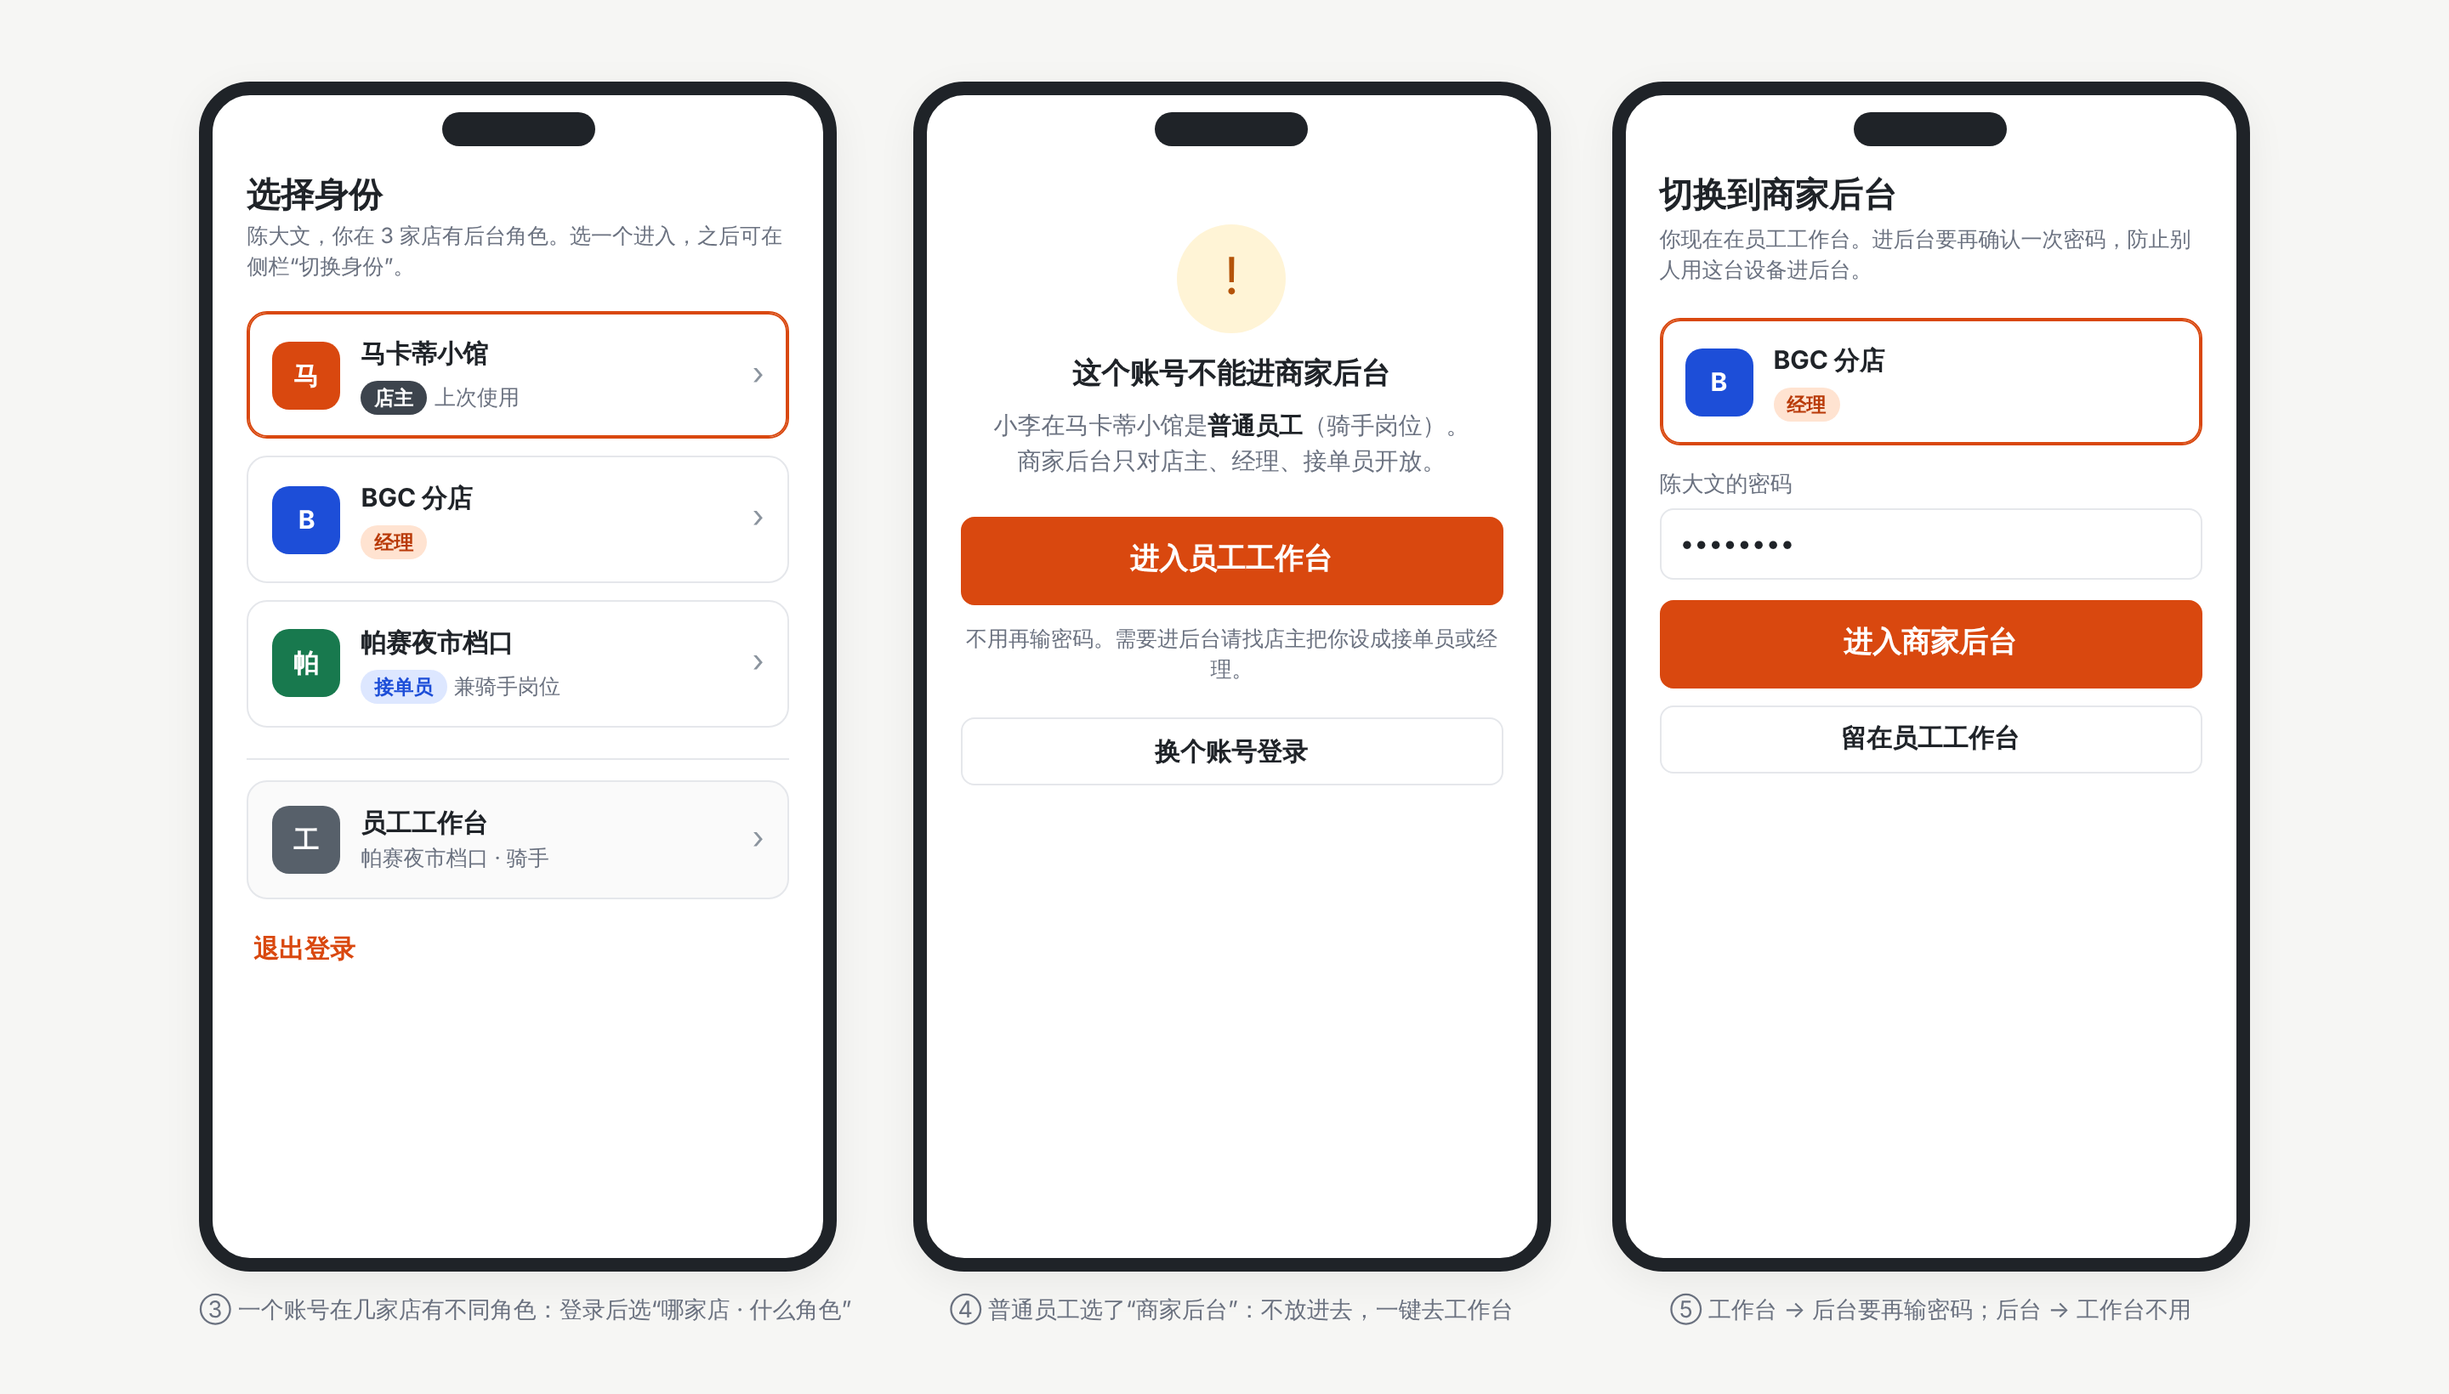
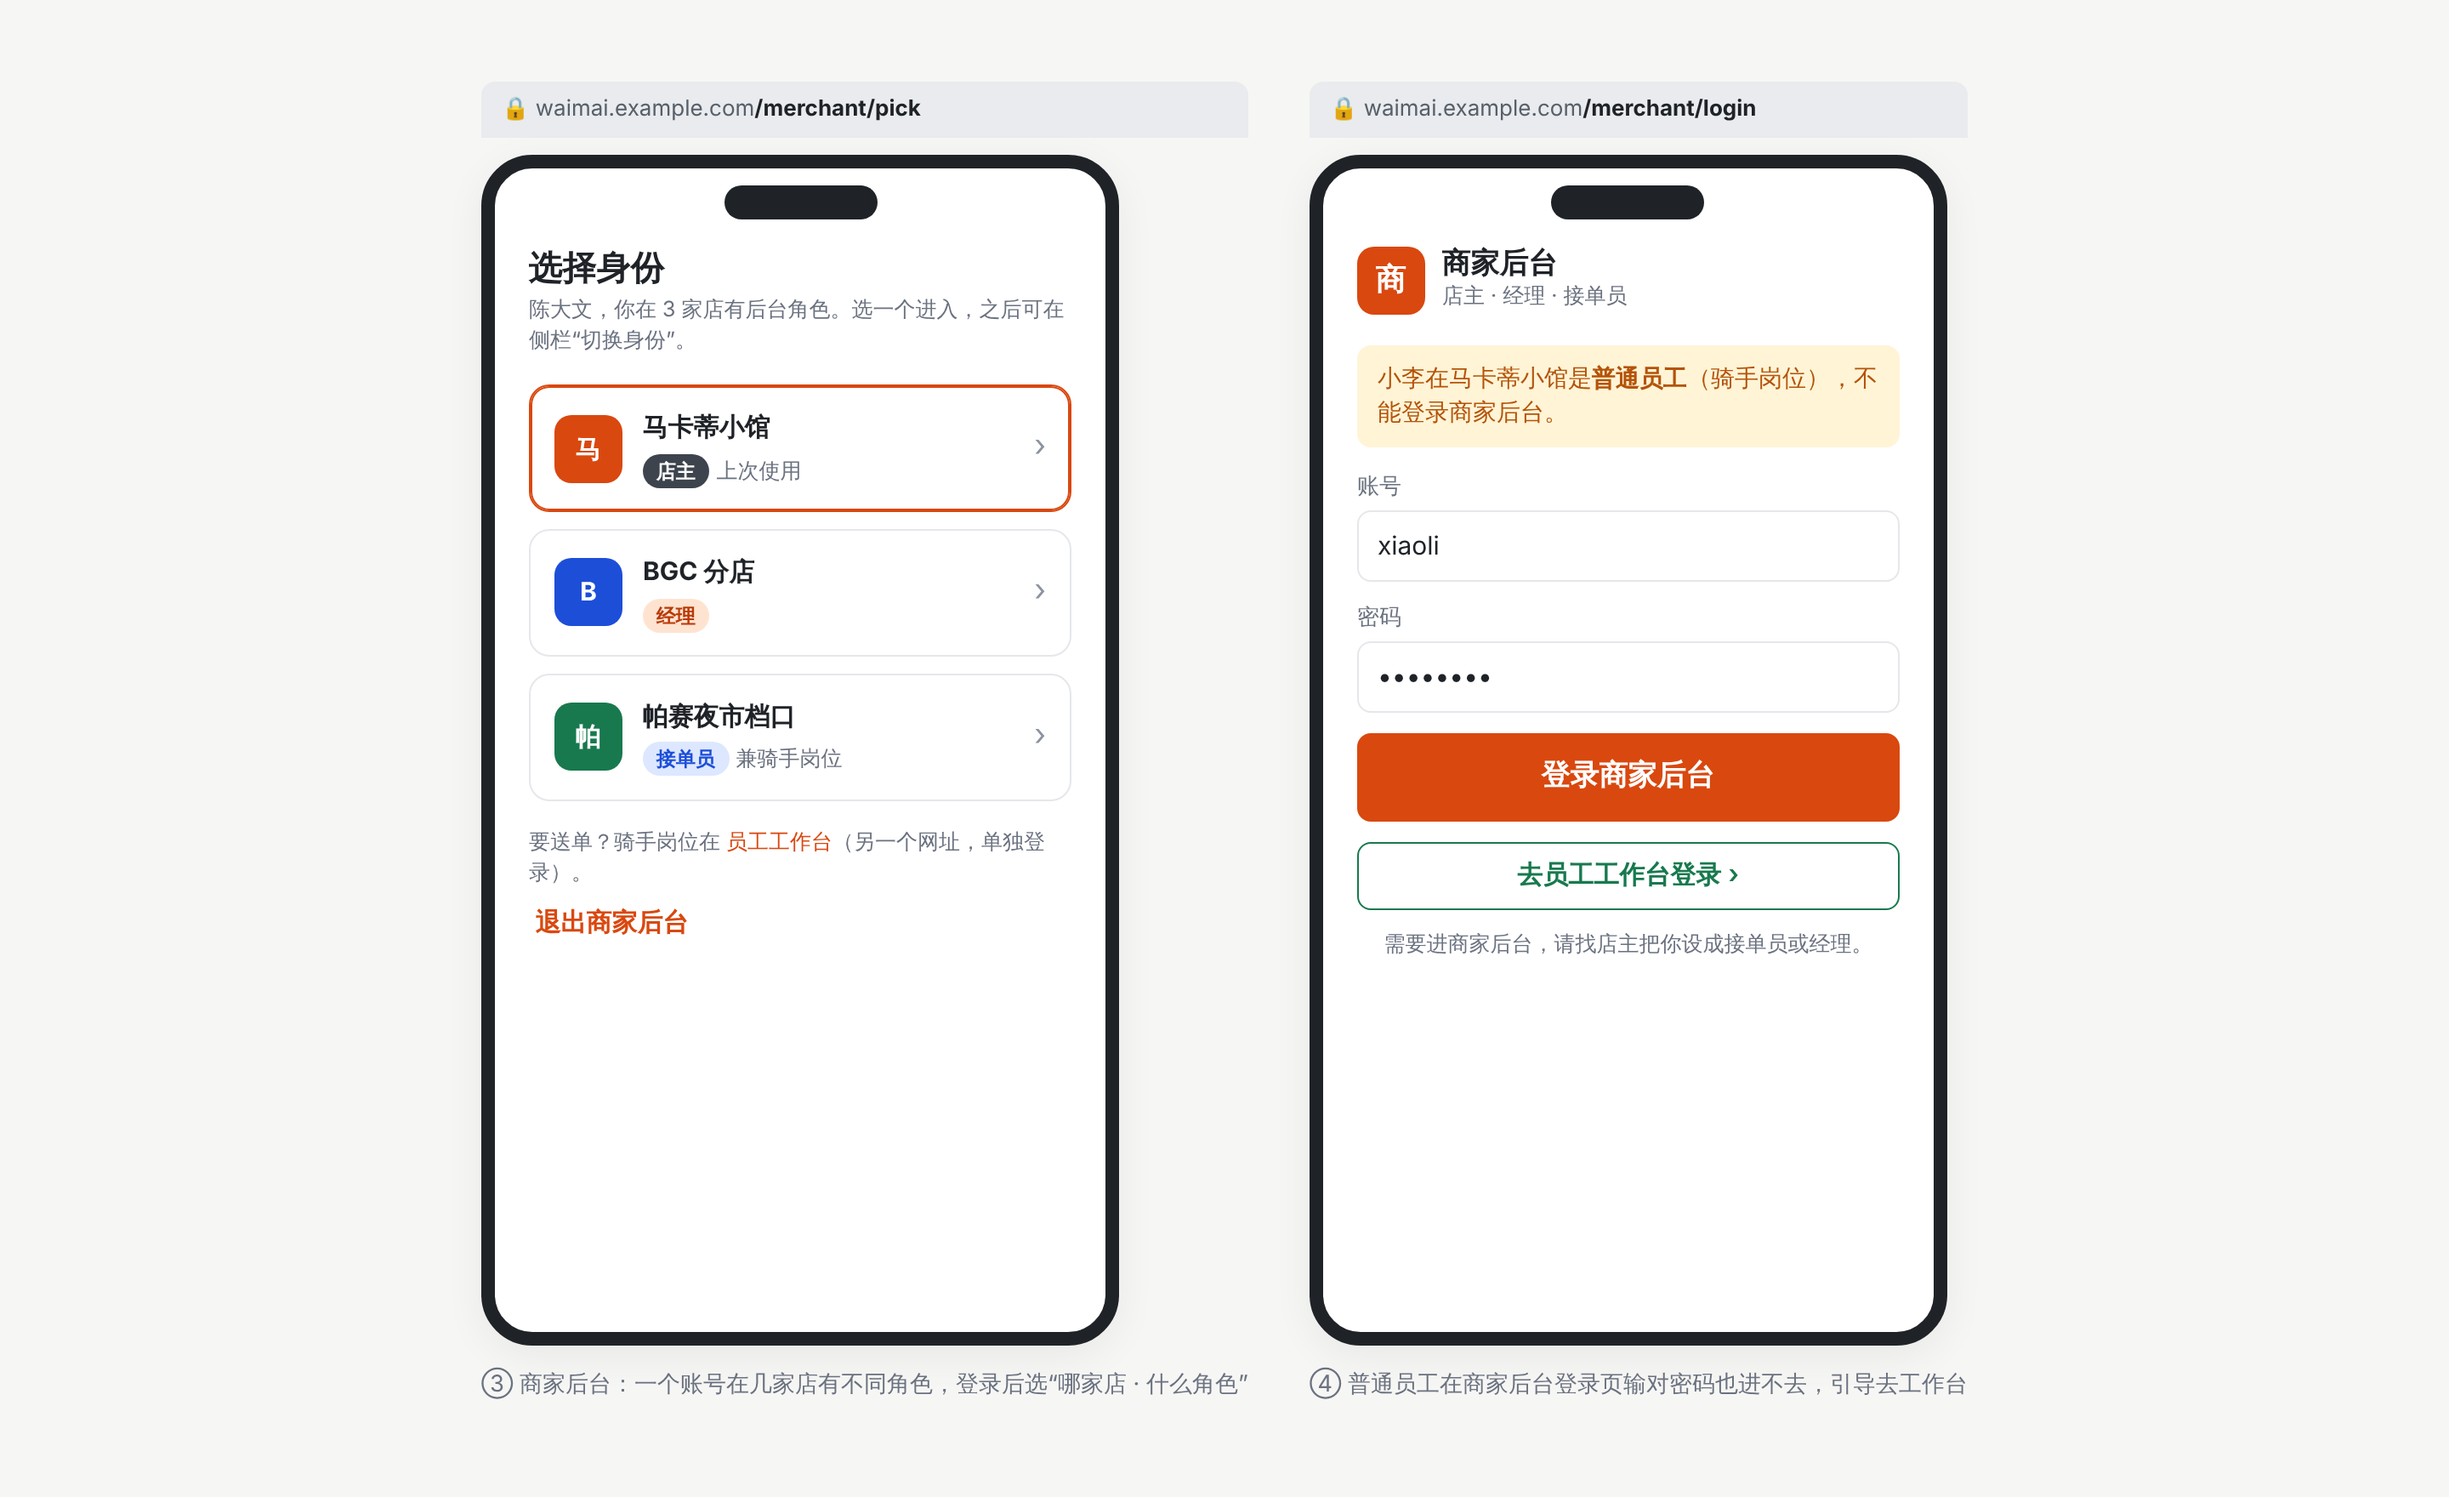
员工工作台、商家后台、平台后台分开网址和登录（方案 v0.2）
Claude-Session: https://claude.ai/code/session_0171QGWK57wVTWkbRvJrpXe4

Changed region(s): [[0.0625, 0.0311, 0.9375, 0.964]]

diff --git a/docs/staff-access-prototype/index.html b/docs/staff-access-prototype/index.html
@@ -39,6 +39,8 @@
   .frame { width: 400px; background: #fff; border: 1px solid var(--line); border-radius: 16px; padding: 26px 24px; box-shadow: 0 6px 24px rgba(0,0,0,.06); }
   .frame.dev { width: 375px; min-height: 700px; border-radius: 30px; padding: 46px 20px 24px; position: relative; border: 8px solid #1f2328; }
   .frame.dev::before { content: ""; position: absolute; top: 10px; left: 50%; width: 90px; height: 20px; margin-left: -45px; background: #1f2328; border-radius: 12px; }
+  .urlbar { width: 100%; background: #e9ebee; border-radius: 8px 8px 0 0; padding: 7px 12px; font-size: 13px; color: #57606a; margin-bottom: 10px; } .urlbar b { color: var(--ink); }
+  .logo { width: 40px; height: 40px; border-radius: 10px; color: #fff; display: grid; place-items: center; font-weight: 800; font-size: 18px; flex: none; }
   .cap { text-align: center; margin-top: 14px; font-size: 13.5px; color: var(--muted); }
   .entry { display: grid; grid-template-columns: 1fr 1fr; background: #eceef0; border-radius: 10px; padding: 4px; margin: 18px 0 16px; }
   .entry button { border: 0; background: none; padding: 9px 0; border-radius: 8px; font-weight: 700; color: #57606a; cursor: pointer; }
@@ -85,71 +87,77 @@
 <body>
 <!-- 原型：商家后台员工登录、选身份、角色权限、员工编辑、接单员视角和经理授权。数据都是示意。方案见 ../STAFF_ACCESS_DESIGN.md -->
 
-<!-- ============ 01 登录页（电脑） ============ -->
+<!-- ============ 01 三个登录页（v0.2：三个网址分开） ============ -->
 <section id="login">
-  <div class="stage">
+  <div class="stage" style="gap:28px">
     <div>
-      <div class="frame">
-        <div class="row between"><h1>登录</h1><button class="lang" style="color:var(--ink)">🌐 中文</button></div>
-        <div class="entry"><button class="on">商家后台<small>店主 · 经理 · 接单员</small></button><button>员工工作台<small>后厨 · 打包 · 骑手</small></button></div>
+      <div class="urlbar">🔒 waimai.example.com<b>/merchant/login</b></div>
+      <div class="frame" style="border-top:6px solid #d9480f">
+        <div class="row between"><div class="row" style="gap:10px"><span class="logo" style="background:#d9480f">商</span><div><h1>商家后台</h1><div class="hint">店主 · 经理 · 接单员</div></div></div><button class="lang" style="color:var(--ink)">🌐 中文</button></div>
+        <div style="height:18px"></div>
         <label class="field"><span>账号</span><input value="lin.cashier"></label>
         <label class="field"><span>密码</span><input type="password" value="12345678"></label>
-        <button class="btn primary block big">登录商家后台</button>
-        <p class="hint" style="margin-top:12px">后厨、打包和骑手请选“员工工作台”。账号由店主或经理在“员工”页开通。</p>
+        <button class="btn primary block big" style="background:#d9480f;border-color:#d9480f">登录商家后台</button>
+        <p class="hint" style="margin-top:14px">后厨、打包、骑手请到 <a>员工工作台登录</a></p>
       </div>
-      <div class="cap">① 登录页：先选进商家后台还是员工工作台，默认选这台设备上次用的</div>
     </div>
+
     <div>
-      <div class="frame">
-        <div class="row between"><h1>登录</h1><button class="lang" style="color:var(--ink)">🌐 中文</button></div>
-        <div class="entry"><button>商家后台<small>店主 · 经理 · 接单员</small></button><button class="on">员工工作台<small>后厨 · 打包 · 骑手</small></button></div>
+      <div class="urlbar">🔒 waimai.example.com<b>/work/login</b></div>
+      <div class="frame" style="border-top:6px solid #18794e">
+        <div class="row between"><div class="row" style="gap:10px"><span class="logo" style="background:#18794e">工</span><div><h1>员工工作台</h1><div class="hint">后厨 · 打包 · 骑手 · 所有员工</div></div></div><button class="lang" style="color:var(--ink)">🌐 中文</button></div>
+        <div style="height:18px"></div>
         <label class="field"><span>账号</span><input value="xiaoli"></label>
         <label class="field"><span>密码</span><input type="password" value="12345678"></label>
-        <button class="btn primary block big">登录员工工作台</button>
-        <p class="hint" style="margin-top:12px">安卓 App 里只有这一种登录，不显示上面两个标签。</p>
+        <button class="btn primary block big" style="background:#18794e;border-color:#18794e">登录员工工作台</button>
+        <p class="hint" style="margin-top:14px">店主、经理、接单员管理门店请到 <a>商家后台登录</a></p>
       </div>
-      <div class="cap">② 选“员工工作台”：所有员工都能进，按岗位显示店内或骑手身份</div>
     </div>
+
+    <div>
+      <div class="urlbar">🔒 waimai.example.com<b>/admin/login</b></div>
+      <div class="frame" style="border-top:6px solid #1e3a8a">
+        <div class="row between"><div class="row" style="gap:10px"><span class="logo" style="background:#1e3a8a">平</span><div><h1>平台管理员后台</h1><div class="hint">只限平台管理员</div></div></div><button class="lang" style="color:var(--ink)">🌐 中文</button></div>
+        <div style="height:18px"></div>
+        <label class="field"><span>账号</span><input value="admin"></label>
+        <label class="field"><span>密码</span><input type="password" value="12345678"></label>
+        <button class="btn primary block big" style="background:#1e3a8a;border-color:#1e3a8a">登录平台后台</button>
+        <p class="hint" style="margin-top:14px">这个页面不和商家、员工的页面互相链接。</p>
+      </div>
+    </div>
+
   </div>
+  <div class="cap" style="margin-top:-150px;padding-bottom:28px">三个后台三个网址、三个登录页，长得也不一样；登录状态互不相通，在一个后台登录不会进到另一个</div>
 </section>
 
-<!-- ============ 02 选择身份 / 被拦 / 工作台没岗位（手机） ============ -->
+<!-- ============ 02 选择身份 / 普通员工被拦 ============ -->
 <section id="pick">
   <div class="stage">
     <div>
+      <div class="urlbar">🔒 waimai.example.com<b>/merchant/pick</b></div>
       <div class="frame dev">
         <h1>选择身份</h1>
         <p class="hint" style="margin:4px 0 16px">陈大文，你在 3 家店有后台角色。选一个进入，之后可在侧栏“切换身份”。</p>
         <div class="idrow last"><div class="av" style="background:#d9480f">马</div><div class="grow"><b>马卡蒂小馆</b><div style="margin-top:3px"><span class="rtag owner">店主</span> <span class="hint">上次使用</span></div></div><span class="go">›</span></div>
         <div class="idrow"><div class="av" style="background:#1d4ed8">B</div><div class="grow"><b>BGC 分店</b><div style="margin-top:3px"><span class="rtag manager">经理</span></div></div><span class="go">›</span></div>
         <div class="idrow"><div class="av" style="background:#18794e">帕</div><div class="grow"><b>帕赛夜市档口</b><div style="margin-top:3px"><span class="rtag cashier">接单员</span> <span class="hint">兼骑手岗位</span></div></div><span class="go">›</span></div>
-        <div style="border-top:1px solid var(--line);margin:18px 0 12px"></div>
-        <div class="idrow" style="background:#fafafa"><div class="av" style="background:#57606a">工</div><div class="grow"><b>员工工作台</b><div class="hint" style="margin-top:2px">帕赛夜市档口 · 骑手</div></div><span class="go">›</span></div>
-        <button class="btn link" style="margin-top:6px">退出登录</button>
+        <p class="hint" style="margin-top:16px">要送单？骑手岗位在 <a>员工工作台</a>（另一个网址，单独登录）。</p>
+        <button class="btn link" style="margin-top:6px">退出商家后台</button>
       </div>
-      <div class="cap">③ 一个账号在几家店有不同角色：登录后选“哪家店 · 什么角色”</div>
+      <div class="cap">③ 商家后台：一个账号在几家店有不同角色，登录后选“哪家店 · 什么角色”</div>
     </div>
     <div>
+      <div class="urlbar">🔒 waimai.example.com<b>/merchant/login</b></div>
       <div class="frame dev">
-        <div class="bigicon" style="background:var(--warn-soft);color:var(--warn)">!</div>
-        <h2 style="text-align:center">这个账号不能进商家后台</h2>
-        <p class="muted" style="text-align:center;margin:10px 6px 22px;font-size:14px">小李在马卡蒂小馆是<b style="color:var(--ink)">普通员工</b>（骑手岗位）。<br>商家后台只对店主、经理、接单员开放。</p>
-        <button class="btn primary block big">进入员工工作台</button>
-        <p class="hint" style="text-align:center;margin-top:12px">不用再输密码。需要进后台请找店主把你设成接单员或经理。</p>
-        <button class="btn block" style="margin-top:18px">换个账号登录</button>
+        <div class="row" style="gap:10px"><span class="logo" style="background:#d9480f">商</span><div><h2>商家后台</h2><div class="hint">店主 · 经理 · 接单员</div></div></div>
+        <div class="banner warn" style="margin:18px 0 14px">小李在马卡蒂小馆是<b>普通员工</b>（骑手岗位），不能登录商家后台。</div>
+        <label class="field"><span>账号</span><input value="xiaoli"></label>
+        <label class="field"><span>密码</span><input type="password" value="12345678"></label>
+        <button class="btn primary block big">登录商家后台</button>
+        <a class="btn block" style="margin-top:12px;color:#18794e;border-color:#18794e">去员工工作台登录 ›</a>
+        <p class="hint" style="text-align:center;margin-top:12px">需要进商家后台，请找店主把你设成接单员或经理。</p>
       </div>
-      <div class="cap">④ 普通员工选了“商家后台”：不放进去，一键去工作台</div>
-    </div>
-    <div>
-      <div class="frame dev">
-        <h1>切换到商家后台</h1>
-        <p class="hint" style="margin:6px 0 18px">你现在在员工工作台。进后台要再确认一次密码，防止别人用这台设备进后台。</p>
-        <div class="idrow last"><div class="av" style="background:#1d4ed8">B</div><div class="grow"><b>BGC 分店</b><div style="margin-top:3px"><span class="rtag manager">经理</span></div></div></div>
-        <label class="field" style="margin-top:14px"><span>陈大文的密码</span><input type="password" value="12345678"></label>
-        <button class="btn primary block big">进入商家后台</button>
-        <button class="btn block" style="margin-top:10px">留在员工工作台</button>
-      </div>
-      <div class="cap">⑤ 工作台 → 后台要再输密码；后台 → 工作台不用</div>
+      <div class="cap">④ 普通员工在商家后台登录页输对密码也进不去，引导去工作台</div>
     </div>
   </div>
 </section>
